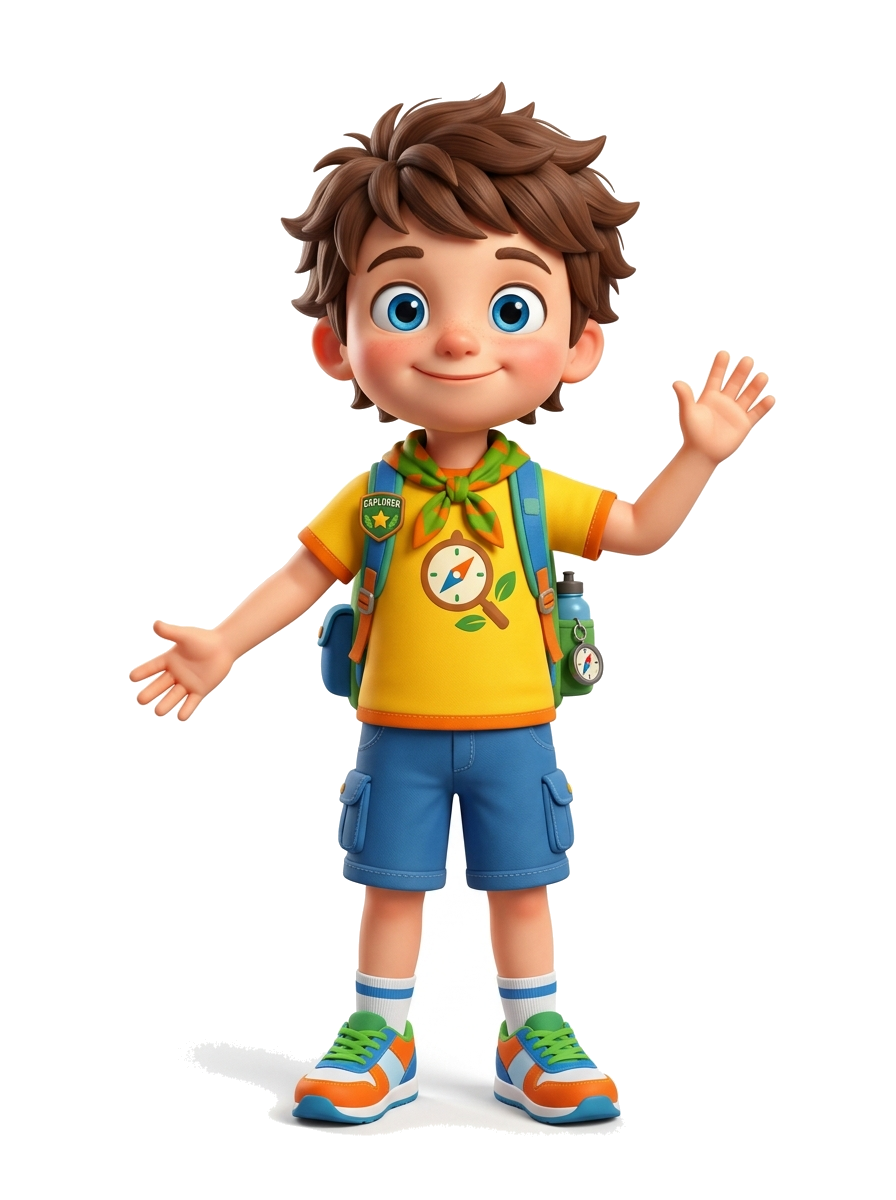
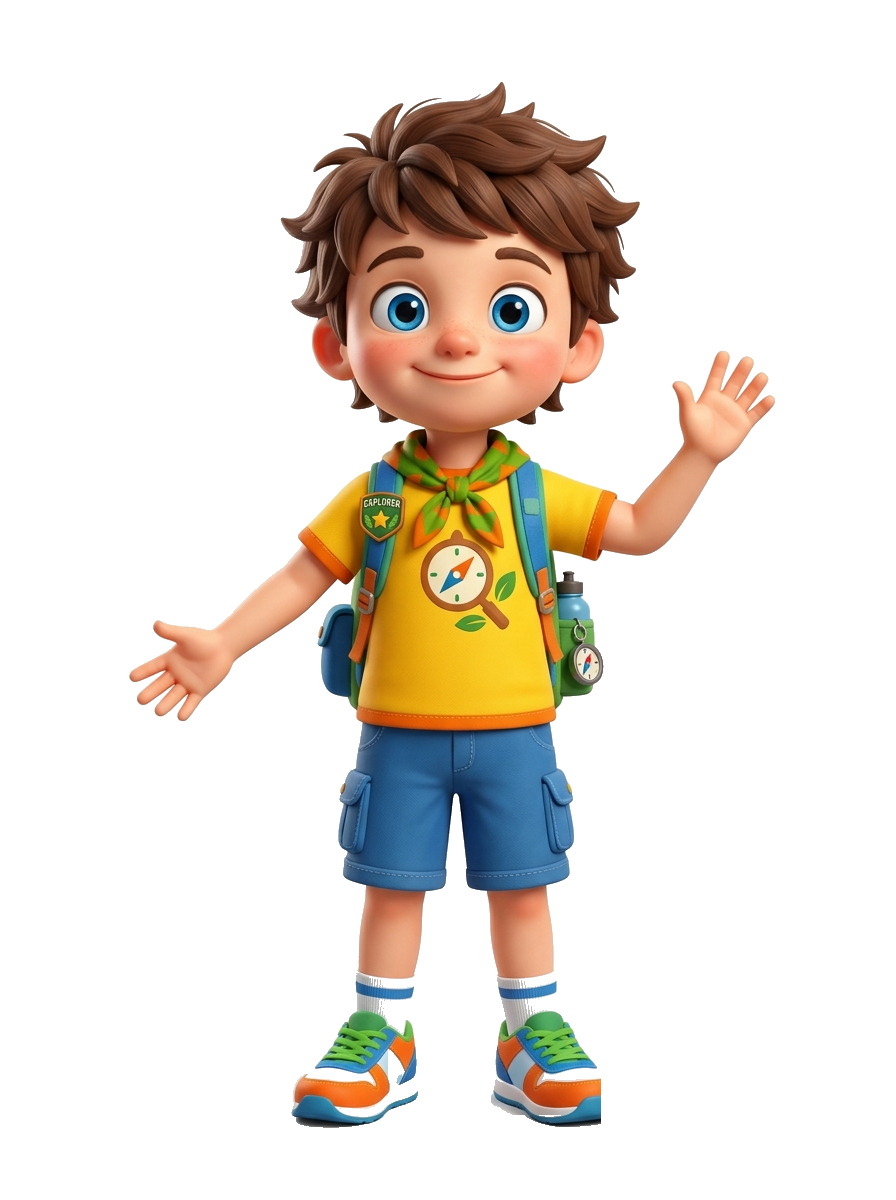
fix(assets): eliminar fondo blanco residual y sombra de pies en nino explorador y calibrar orejas nina v319

Changed region(s): [[0.2188, 0.8017, 0.6875, 0.9558], [0.5938, 0.8017, 0.625, 0.8633]]

diff --git a/body_mirror.js b/body_mirror.js
@@ -117,8 +117,8 @@
       },
       orejas: {
         altBoxes: [
-          { top: 24.0, left: 31.5, width: 9.0, height: 9.5 },
-          { top: 24.0, left: 62.5, width: 9.0, height: 9.5 }
+          { top: 22.5, left: 32.0, width: 6.8, height: 7.5 },
+          { top: 22.5, left: 61.5, width: 6.8, height: 7.5 }
         ]
       },
       pelo: {
@@ -140,8 +140,8 @@
       },
       orejas: {
         altBoxes: [
-          { top: 18.5, left: 28.5, width: 9.0, height: 9.5 },
-          { top: 18.5, left: 62.5, width: 9.0, height: 9.5 }
+          { top: 20.5, left: 32.5, width: 6.8, height: 7.2 },
+          { top: 20.5, left: 62.0, width: 6.5, height: 7.2 }
         ]
       },
       pelo: {
@@ -285,7 +285,7 @@
           <!-- TARJETA NIÑO -->
           <div id="card-select-boy" onclick="selectCharacter('boy')" style="flex: 1; min-width: 180px; max-width: 250px; background: linear-gradient(135deg, #1E3A8A 0%, #0284C7 100%); border: 3.5px solid #38BDF8; border-radius: 26px; padding: 16px 12px; display: flex; flex-direction: column; align-items: center; cursor: pointer; box-shadow: 0 10px 25px rgba(2, 132, 199, 0.35); transition: transform 0.2s, box-shadow 0.2s; position: relative;" onmouseover="this.style.transform='scale(1.04)'" onmouseout="this.style.transform='scale(1)'">
             <div style="width: 150px; height: 190px; display: flex; align-items: center; justify-content: center; margin-bottom: 8px;">
-              <img src="assets/nino_explorador.png?v=318" alt="Niño" style="max-width: 100%; max-height: 100%; object-fit: contain; filter: drop-shadow(0 8px 16px rgba(0,0,0,0.4));" />
+              <img src="assets/nino_explorador.png?v=319" alt="Niño" style="max-width: 100%; max-height: 100%; object-fit: contain; filter: drop-shadow(0 8px 16px rgba(0,0,0,0.4));" />
             </div>
             <div style="background: #FFFFFF; color: #0284C7; font-size: 16px; font-weight: 900; padding: 6px 20px; border-radius: 14px; box-shadow: 0 4px 10px rgba(0,0,0,0.15); display: flex; align-items: center; gap: 6px;">
               <span>👦</span>
@@ -296,7 +296,7 @@
           <!-- TARJETA NIÑA -->
           <div id="card-select-girl" onclick="selectCharacter('girl')" style="flex: 1; min-width: 180px; max-width: 250px; background: linear-gradient(135deg, #831843 0%, #DB2777 100%); border: 3.5px solid #F472B6; border-radius: 26px; padding: 16px 12px; display: flex; flex-direction: column; align-items: center; cursor: pointer; box-shadow: 0 10px 25px rgba(219, 39, 119, 0.35); transition: transform 0.2s, box-shadow 0.2s; position: relative;" onmouseover="this.style.transform='scale(1.04)'" onmouseout="this.style.transform='scale(1)'">
             <div style="width: 150px; height: 190px; display: flex; align-items: center; justify-content: center; margin-bottom: 8px;">
-              <img src="assets/nina_exploradora.png?v=318" alt="Niña" style="max-width: 100%; max-height: 100%; object-fit: contain; filter: drop-shadow(0 8px 16px rgba(0,0,0,0.4));" />
+              <img src="assets/nina_exploradora.png?v=319" alt="Niña" style="max-width: 100%; max-height: 100%; object-fit: contain; filter: drop-shadow(0 8px 16px rgba(0,0,0,0.4));" />
             </div>
             <div style="background: #FFFFFF; color: #DB2777; font-size: 16px; font-weight: 900; padding: 6px 20px; border-radius: 14px; box-shadow: 0 4px 10px rgba(0,0,0,0.15); display: flex; align-items: center; gap: 6px;">
               <span>👧</span>
@@ -408,8 +408,8 @@
 
     const isFace = (BodyMirrorGame.currentPhase === 'face');
     const imgSrc = (BodyMirrorGame.selectedCharacter === 'boy') 
-      ? 'assets/nino_explorador.png?v=318' 
-      : 'assets/nina_exploradora.png?v=318';
+      ? 'assets/nino_explorador.png?v=319' 
+      : 'assets/nina_exploradora.png?v=319';
 
     const charTitle = (BodyMirrorGame.selectedCharacter === 'boy') ? 'El Niño Explorador' : 'La Niña Exploradora';
     const subTitle = isFace ? 'Explorando las Partes de la Cara' : 'Explorando las Partes del Cuerpo';

diff --git a/index.html b/index.html
@@ -8,7 +8,7 @@
   <title>CRIN Aventuras de Lectoescritura</title>
   
   <script>
-    const CURRENT_APP_VERSION = 'v318';
+    const CURRENT_APP_VERSION = 'v319';
     // DECISIÓN PEDAGÓGICA TEMPORAL: Desactivar pronunciación de sílabas y letras en el juego
     // El narrador solo presenta el juego y celebra (¡Súper, logrado!, etc.), sin seguimiento de letras/sílabas
     window.CRIN_MUTE_IN_GAME_SYLLABLES_LETTERS = true;
